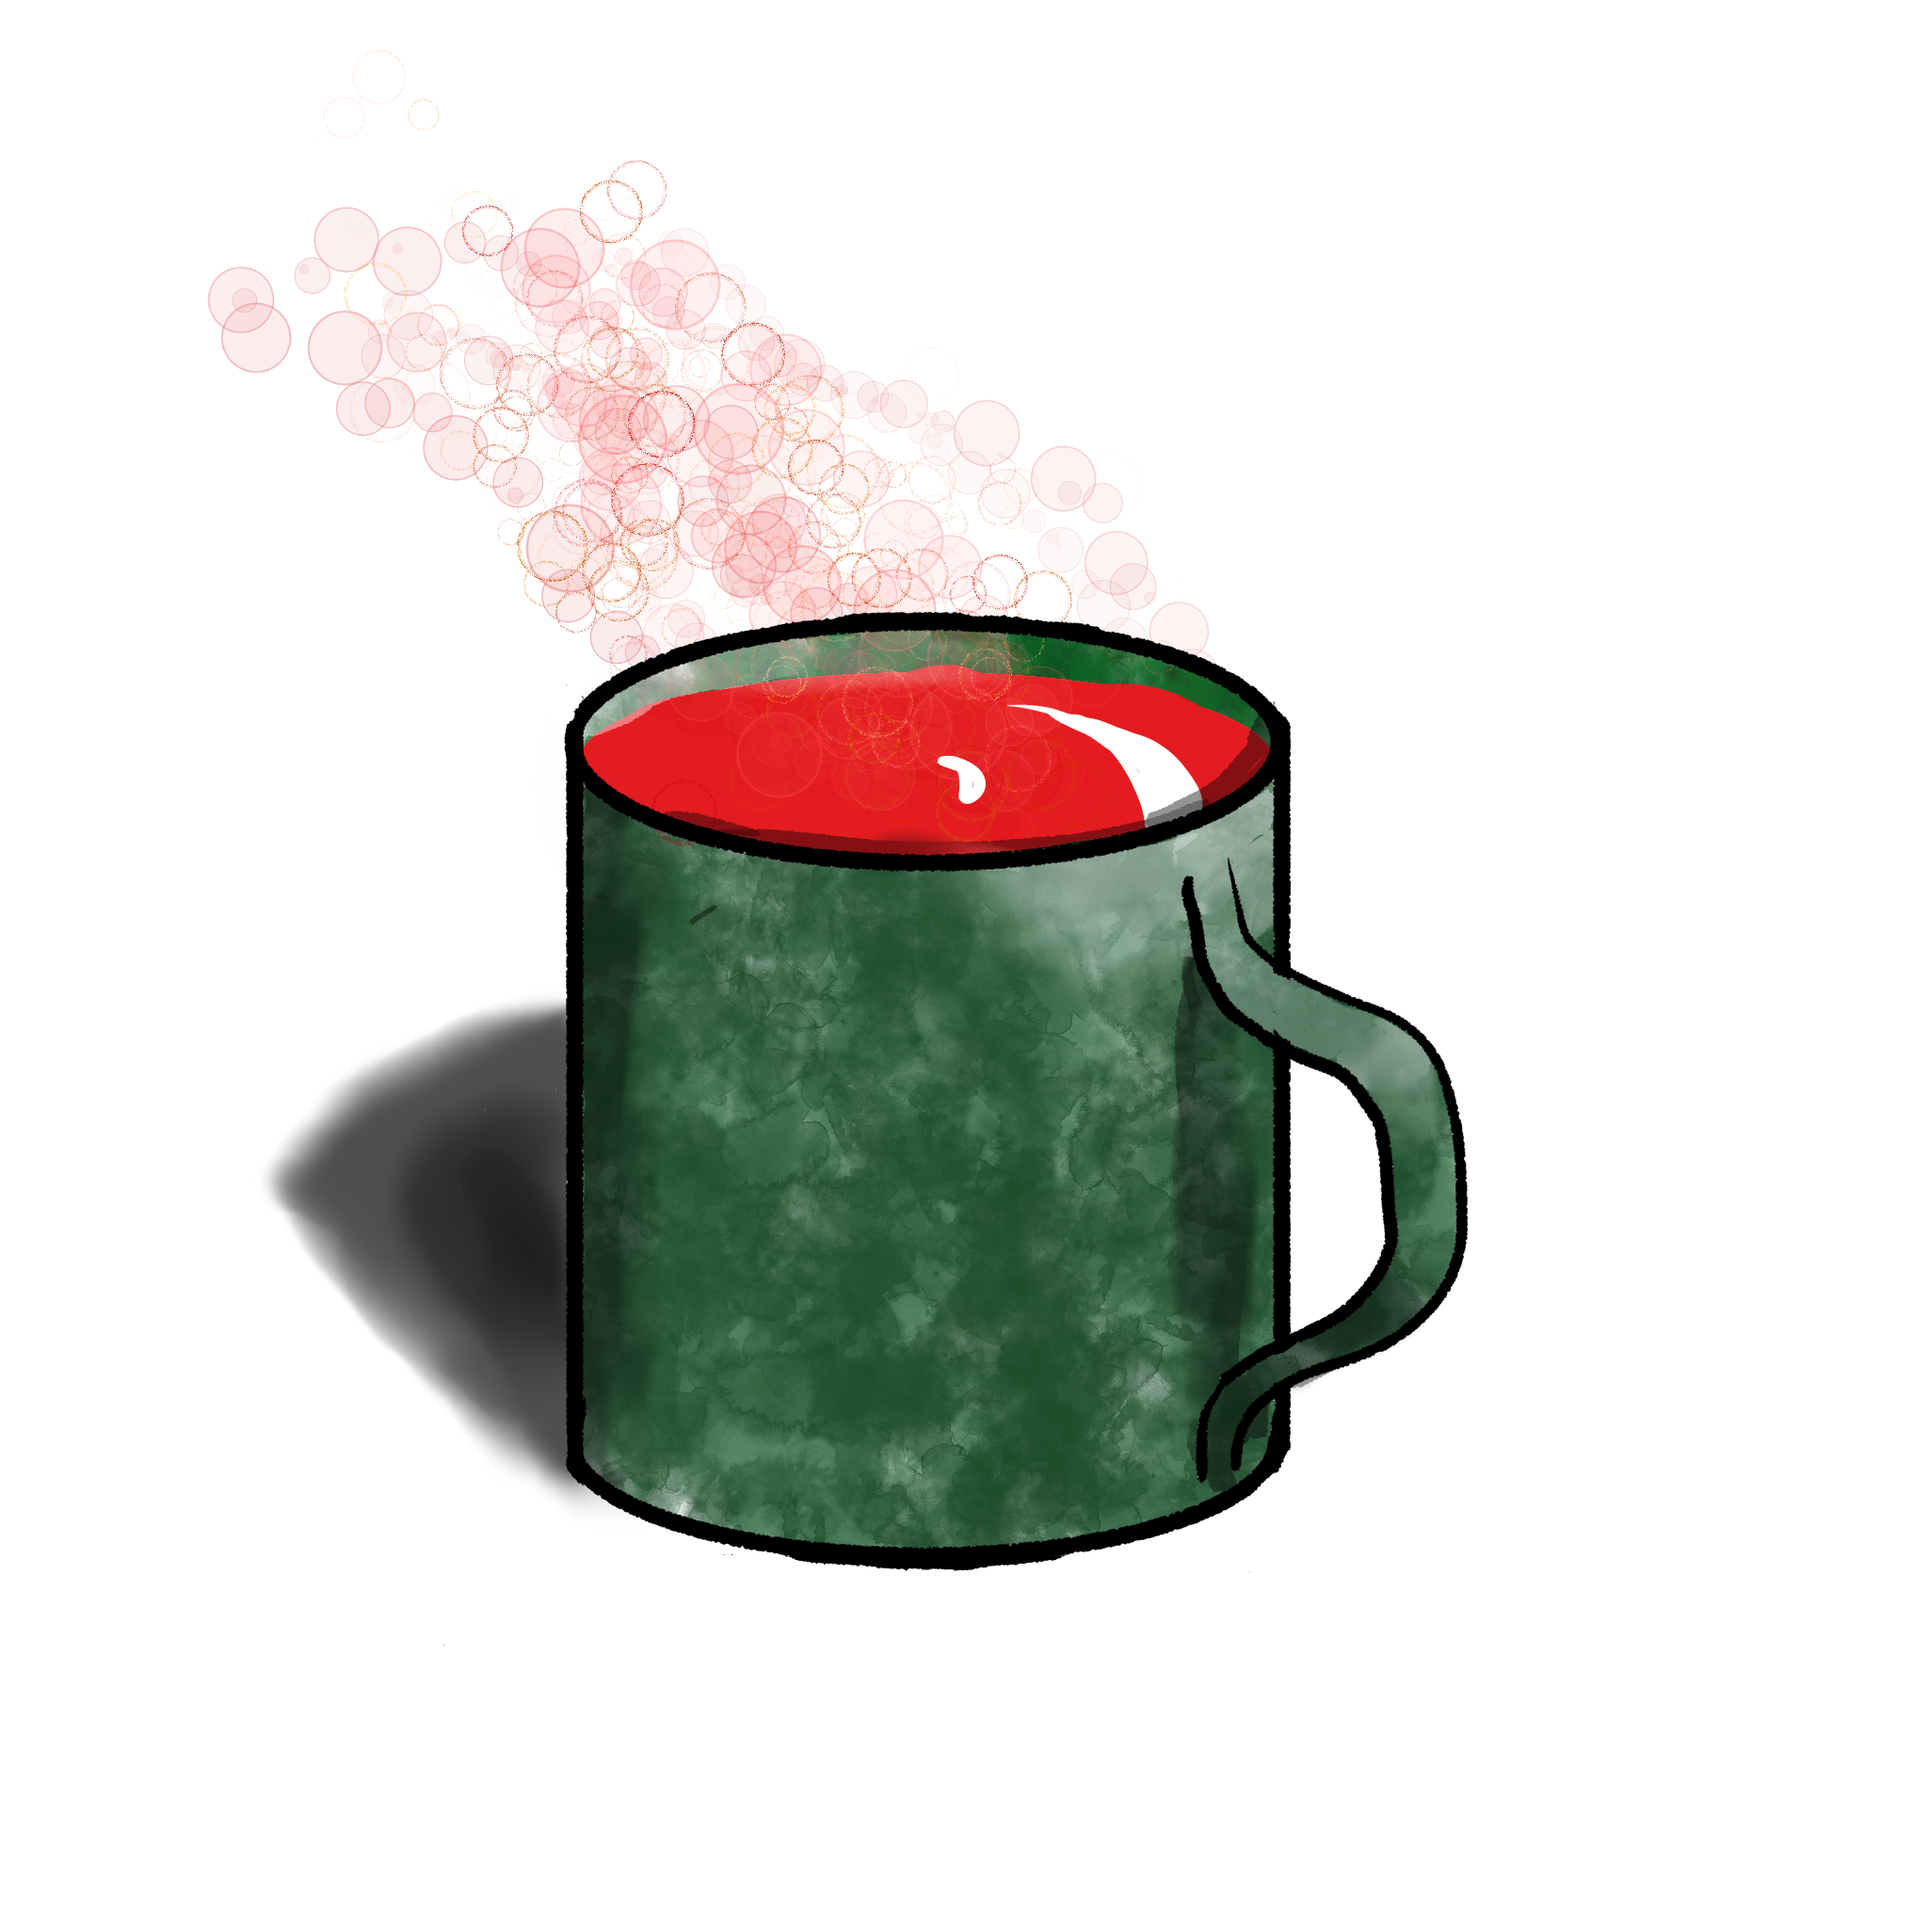
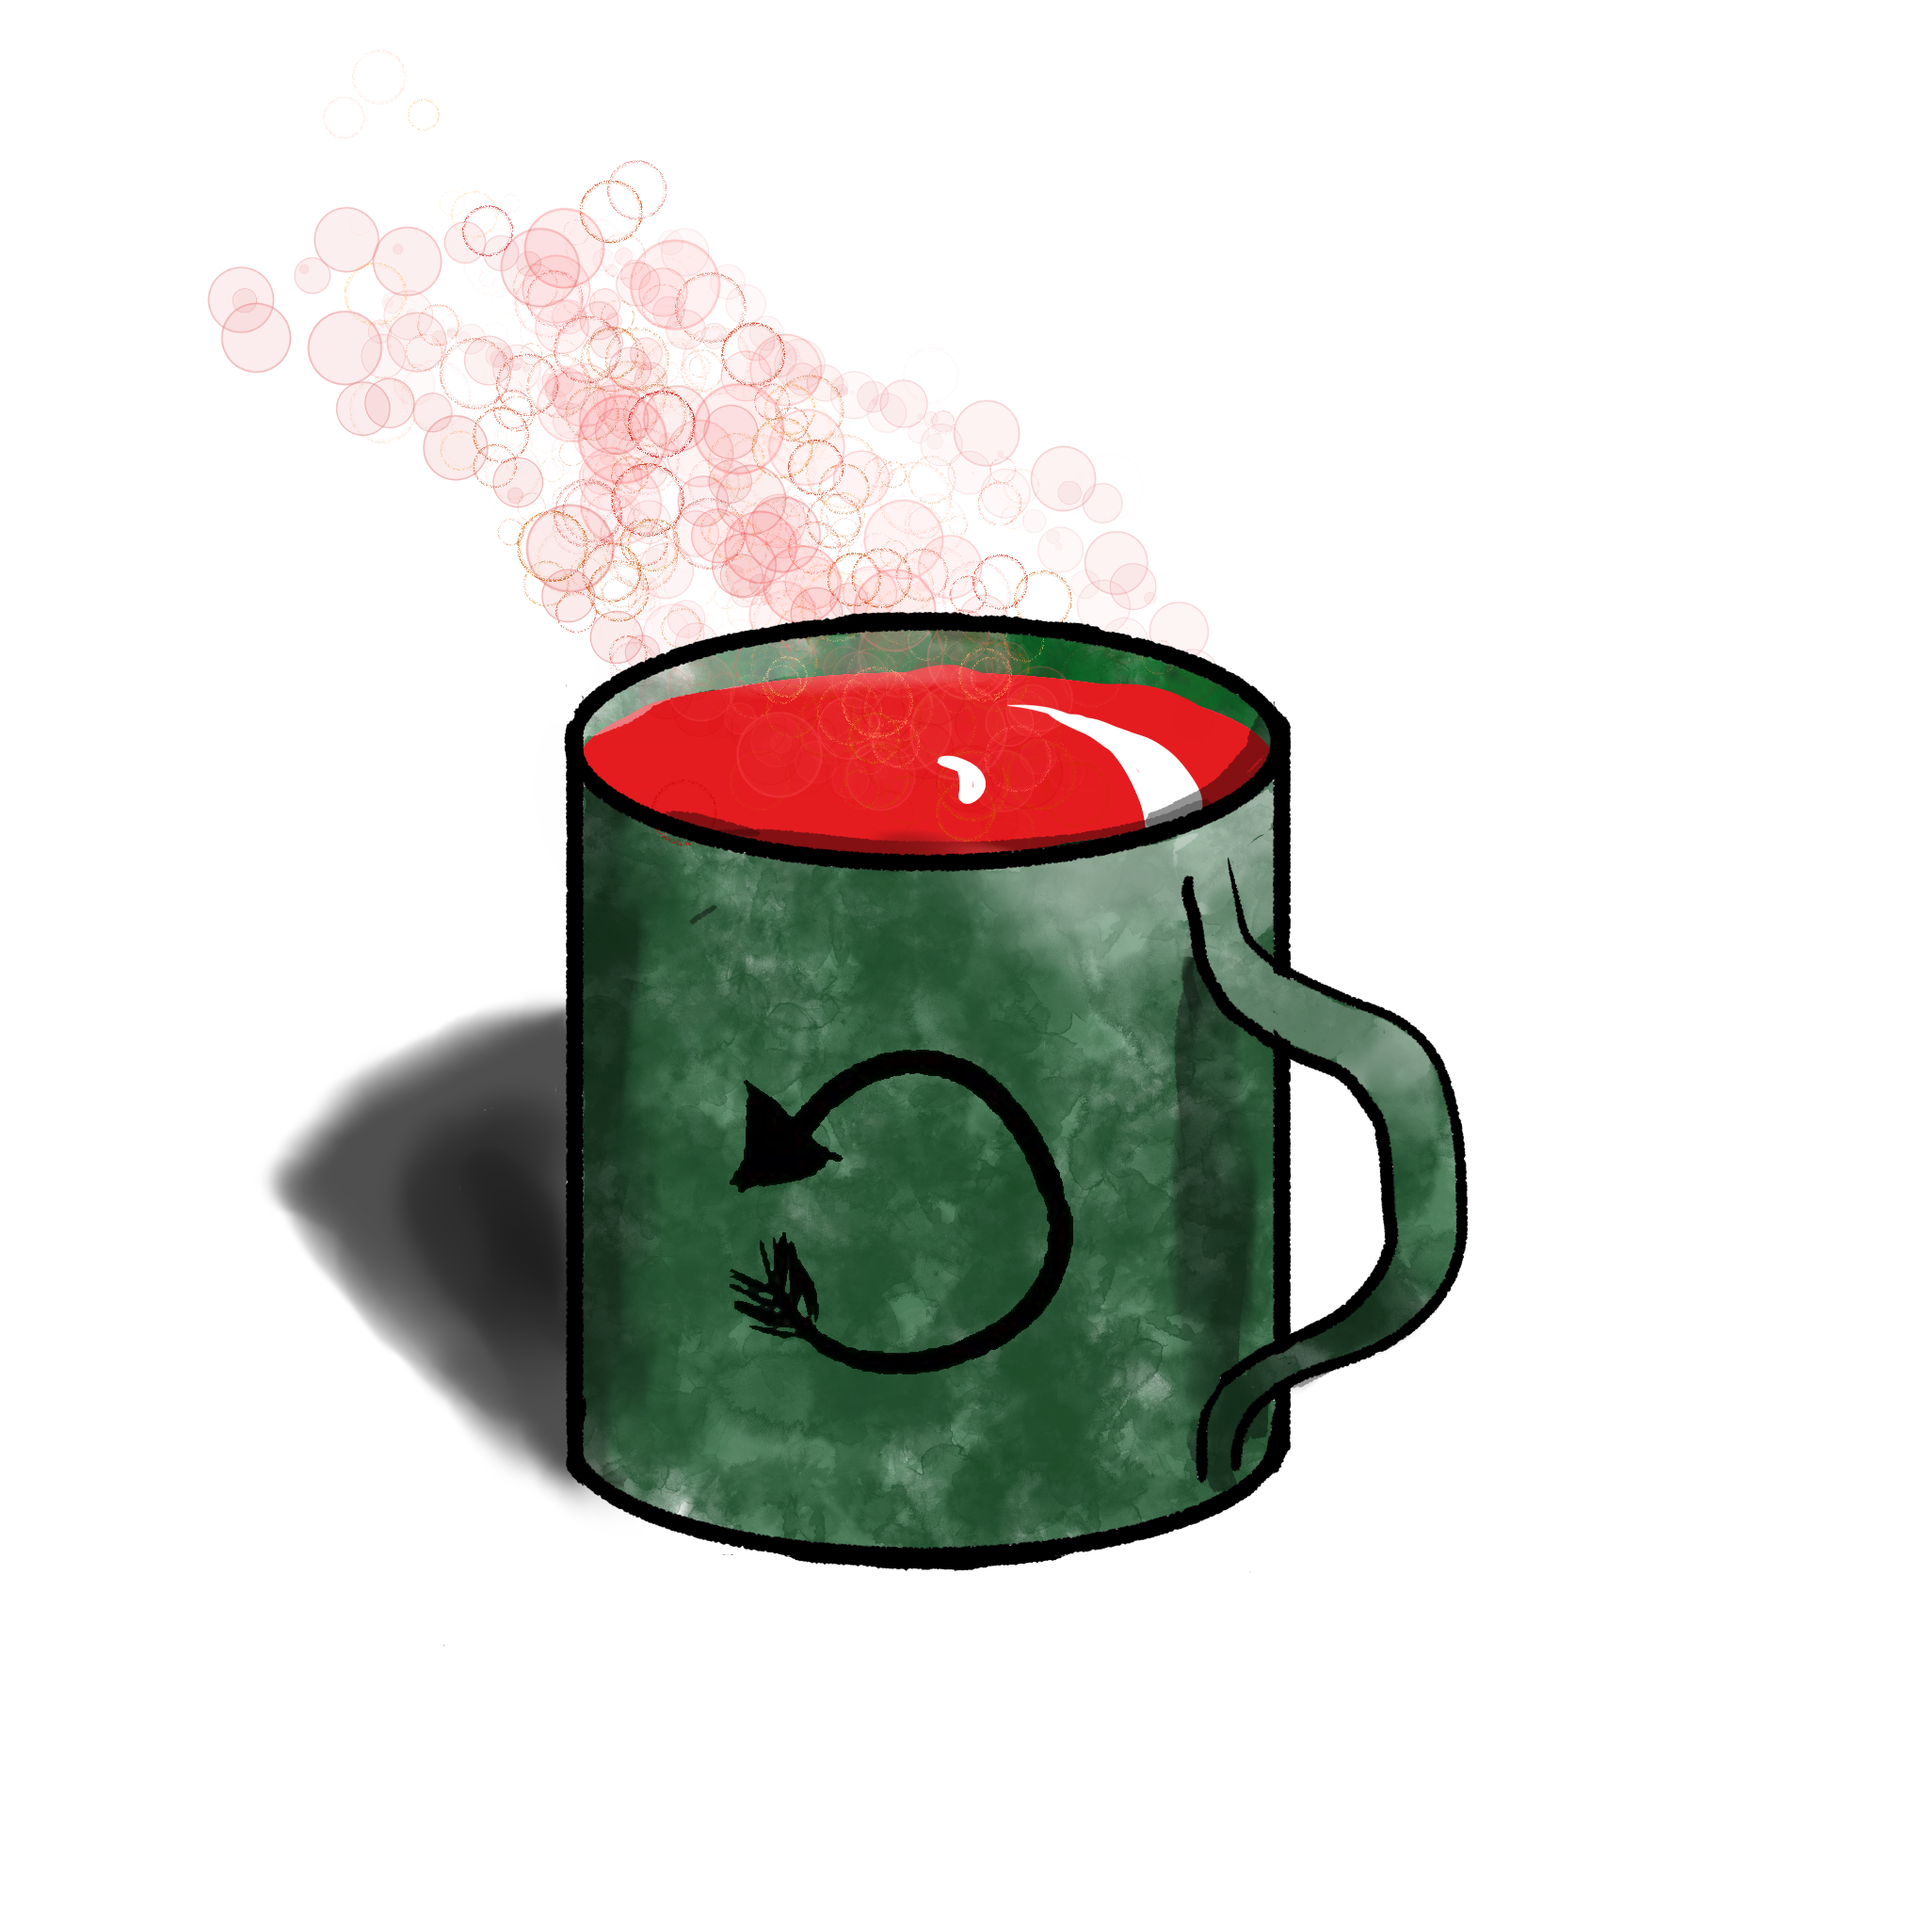
Added full card art implementation. Hover to see text

Changed region(s): [[0.375, 0.5312, 0.5625, 0.7188]]

diff --git a/Assets/Scripts/UIObjects/CardUIUpdater.cs b/Assets/Scripts/UIObjects/CardUIUpdater.cs
@@ -10,6 +10,7 @@ public class CardUIUpdater : MonoBehaviour
     public TextMeshProUGUI displayName;
     public TextMeshProUGUI cardEffect;
     public Image background;
+    public Image CardArt;
 
     public Sprite AttackBG;
     public Sprite SpellBG;
@@ -127,8 +128,55 @@ public class CardUIUpdater : MonoBehaviour
     {
         costText.text = "" + data.cost;
         displayName.text = data.cardName;
-        cardEffect.text = data.effectText;
+        DisplayTextAndCardArtDynamically(data);
         UpdateBGColor(data.cardType);
+    }
+
+    private void DisplayTextAndCardArtDynamically(UICardData data)
+    {
+        if (data.cardArt == null)
+        {
+            DisplayFullTextWithNoArt(data);
+        }
+        else
+        {
+            if (data.displayOnlyCardArt)
+            {
+                DisplayFullCardArt(data);
+            }
+            else
+            {
+                DisplayFullTextWithFadedArt(data);
+            }
+        }
+    }
+
+    //Hides text, shows full card art
+    private void DisplayFullCardArt(UICardData data)
+    {
+        cardEffect.text = "";
+        CardArt.sprite = data.cardArt;
+        var color = CardArt.color;
+        color.a = 1f;
+        CardArt.color = color;
+    }
+
+    //Makes the art transparent and initializes text so text is fully readable
+    private void DisplayFullTextWithFadedArt(UICardData data)
+    {
+        cardEffect.text = data.effectText;
+        CardArt.sprite = data.cardArt;
+        var color = CardArt.color;
+        color.a = .4f;
+        CardArt.color = color;
+    }
+
+    private void DisplayFullTextWithNoArt(UICardData data)
+    {
+        cardEffect.text = data.effectText;
+        var color = CardArt.color;
+        color.a = 0f;
+        CardArt.color = color;
     }
 
     private void UpdateBGColor(UICardData.CardType type)

diff --git a/Assets/Scripts/UIObjects/UICardData.cs b/Assets/Scripts/UIObjects/UICardData.cs
@@ -11,7 +11,7 @@ public class UICardData
     public string effectText;
     public CardType cardType;
     public Sprite cardArt;
-    public bool maximize;
+    public bool displayOnlyCardArt;
 
     public UICardData(string cardName, int cost, string effectText, CardType type)
     {
@@ -21,11 +21,16 @@ public class UICardData
         this.cardType = type;
     }
 
-    public UICardData(string cardName, int cost, string effectText, CardType type, Sprite cardArt, bool maximize) 
+    public UICardData(string cardName, int cost, string effectText, CardType type, string cardArtFileName) 
         : this(cardName, cost, effectText, type)
     {
-        this.cardArt = cardArt;
-        this.maximize = maximize;
+        this.cardArt = Resources.Load<Sprite>("Card_Art\\" + cardArtFileName);
+        if(cardArt == null)
+        {
+            Debug.Log("Unable to find the card art for " + cardArt);
+        }
+        //Default to full screen art with no text or show text
+        this.displayOnlyCardArt = true;
     }
 
 }

diff --git a/Assets/Scripts/Managers/CardManager.cs b/Assets/Scripts/Managers/CardManager.cs
@@ -10,9 +10,20 @@ public class CardManager : MonoBehaviour
 
     public bool empty;
 
+    public bool AlwaysDisplayText;
+
+    private bool prevSettingForCardArt;
+
     public void Init(CardData cardData)
     {
         this.cardData = cardData;
+        if (AlwaysDisplayText)
+        {
+            cardData.GetUICardData().displayOnlyCardArt = false;
+        } else
+        {
+            cardData.GetUICardData().displayOnlyCardArt = true;
+        }
         this.empty = false;
     }
     public void SetEmpty()
@@ -65,6 +76,17 @@ public class CardManager : MonoBehaviour
         } else
         {
             return null;
+        }
+    }
+
+    public void SetCardArtOpacity(bool displayOnlyCardArt)
+    {
+        if(AlwaysDisplayText)
+        {
+            cardData.GetUICardData().displayOnlyCardArt = false;
+
+        } else {
+            cardData.GetUICardData().displayOnlyCardArt = displayOnlyCardArt;
         }
     }
 

diff --git a/Assets/Scripts/CardScripts/Berserk.cs b/Assets/Scripts/CardScripts/Berserk.cs
@@ -6,7 +6,7 @@ public class Berserk : CardData
 {
     public Berserk()
     {
-        cardData = new UICardData("Berserk", cost: 2, "Play top 2 cards of deck at random", UICardData.CardType.SPELL);
+        cardData = new UICardData("Berserk", cost: 2, "Play top 2 cards of deck at random", UICardData.CardType.SPELL, "Berserk");
         target = Target.BOARD;
     }
 

diff --git a/Assets/Scripts/CardScripts/Dagger.cs b/Assets/Scripts/CardScripts/Dagger.cs
@@ -6,7 +6,7 @@ public class Dagger : CardData
 {
     public Dagger()
     {
-        cardData = new UICardData("Dagger", cost: 1, "Deal 1 damage.", UICardData.CardType.ATTACK);
+        cardData = new UICardData("Dagger", cost: 1, "Deal 1 damage.", UICardData.CardType.ATTACK, cardArtFileName: "Dagger");
         target = Target.ENEMY;
     }
 

diff --git a/Assets/Scripts/CardScripts/Created/VileSword.cs b/Assets/Scripts/CardScripts/Created/VileSword.cs
@@ -6,7 +6,7 @@ public class VileSword : CardData
 {
     public VileSword()
     {
-        cardData = new UICardData("VileSword", cost: 2, "Deal 5 damage", UICardData.CardType.ATTACK);
+        cardData = new UICardData("VileSword", cost: 2, "Deal 5 damage", UICardData.CardType.ATTACK, "Vile_Sword");
         target = Target.ENEMY;
     }
 

diff --git a/Assets/Scripts/CardScripts/Energize.cs b/Assets/Scripts/CardScripts/Energize.cs
@@ -6,7 +6,7 @@ public class Energize : CardData
 {
     public Energize()
     {
-        cardData = new UICardData("Energize", cost: 0, "Gain 1 Energy", UICardData.CardType.SPELL);
+        cardData = new UICardData("Energize", cost: 0, "Gain 1 Energy", UICardData.CardType.SPELL, "Mug");
         target = Target.BOARD;
     }
 

diff --git a/Assets/Scripts/CardScripts/Sword.cs b/Assets/Scripts/CardScripts/Sword.cs
@@ -6,7 +6,7 @@ public class Sword : CardData
 {
     public Sword()
     {
-        cardData = new UICardData("Sword", cost: 2, "Deal 3 damage.", UICardData.CardType.ATTACK);
+        cardData = new UICardData("Sword", cost: 2, "Deal 3 damage.", UICardData.CardType.ATTACK, "Vile_Sword");
         target = Target.ENEMY;
     }
 
